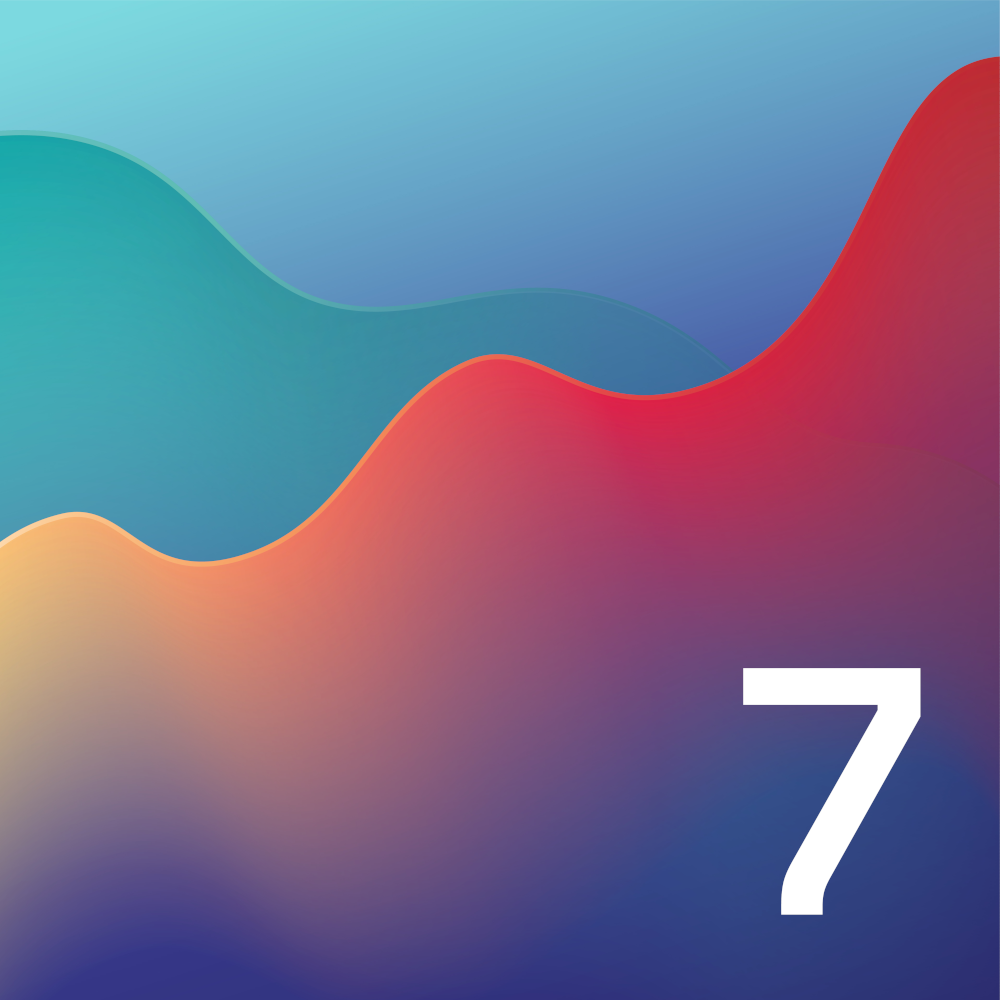
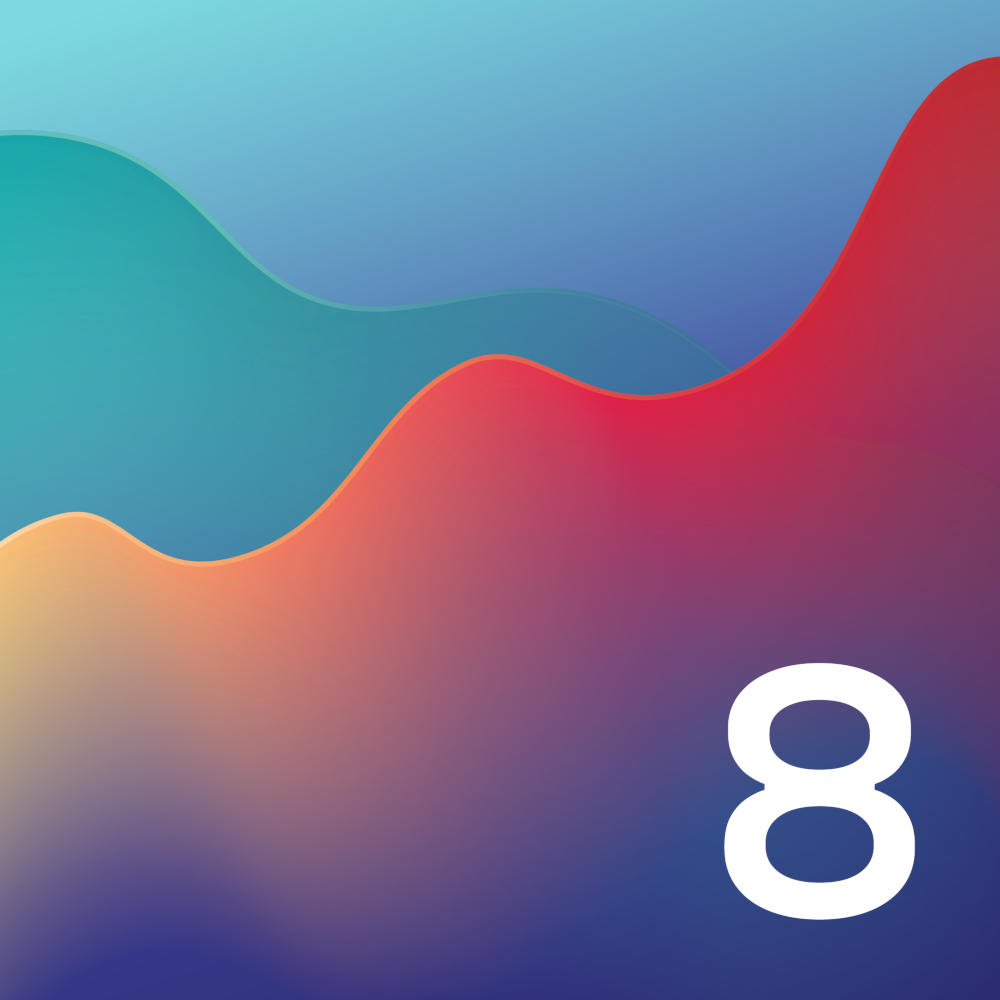
E8: Opraven obrázek a číslo epizody

Changed region(s): [[0.713, 0.651, 0.93, 0.93], [0.992, 0.806, 1.0, 1.0], [0.992, 0.062, 1.0, 0.093]]

diff --git a/_episodes/8-ipcc-ar6-cast-1.md b/_episodes/8-ipcc-ar6-cast-1.md
@@ -1,7 +1,7 @@
 ---
 layout:     episode
 title:      "„Víme toho už dost,“ říká nová zpráva IPCC"
-number:     7
+number:     8
 slug:       "7-ipcc-ar6-cast-1"
 published:  2021-10-01
 summary:    |
